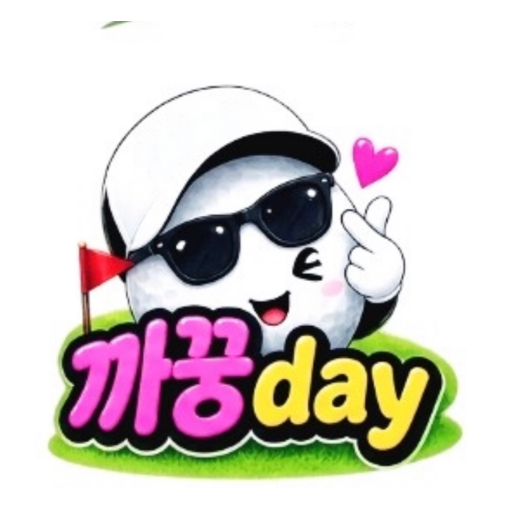
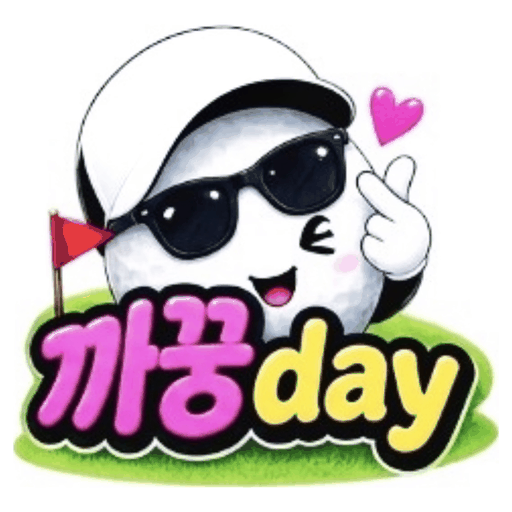
아이콘과 첫 화면을 새 스티커 그림으로 바꾼다
사용자가 준 고해상도 원본(1206×1069)에서 다섯 자리를 함께 다시 만들었다.
예전 것은 같은 그림의 낮은 해상도판이라 글자가 뭉개져 있었다.

- icon-192 · icon-512 · apple-touch-icon(180) — 흰 정사각 가운데 95%
- icon-maskable(512) — 80%. 동그랗게 잘라 봐서 그림이 안 잘리는 걸 확인했다
- index.html의 .boot::before에 박아 둔 400px WebP도 함께 갈았다(13KB)

넷 다 256색으로 줄여 저장한다. 스티커라 색 수가 적어 눈에는 그대로인데
512가 246KB → 88KB가 된다. 줄인 뒤 바깥 테두리가 순백인지 확인했다 —
디더링 잡티가 남으면 흰 바탕 위에서 네모난 자국으로 보인다.

manifest의 background_color를 흰색으로 옮겼다. --bg(살짝 초록빛)로 두면
안드로이드가 띄우는 첫 화면에서 그림 둘레에 네모난 자국이 보이고,
바로 뒤에 오는 .boot(흰 바탕)와도 색이 어긋난다. theme_color는
상태 막대 몫이라 그대로 두었다.

diff --git a/index.html b/index.html
@@ -57,7 +57,7 @@
       /* **그림을 파일로 부르지 않고 여기 박아 둔다.** 파일로 두면 문서를 받고
          나서 한 번 더 다녀와야 해서, LTE에서 흰 화면이 먼저 보이고 조금 뒤에
          그림이 떴다. 지금은 문서와 함께 오므로 첫 프레임부터 있다.
-         (원본 512 PNG는 200KB라 못 박는다. 400px WebP로 줄여 15KB다.)
+         (원본 512 PNG는 87KB라 못 박는다. 400px WebP로 줄여 13KB다.)
          `::before`로 두는 것도 이유가 있다 — 이러면 React 쪽 로딩 화면이
          `<div class="boot">` 하나만 그려도 같은 그림이 나와서, 그림이
          자바스크립트 묶음에 **또 들어가지 않는다.**
@@ -69,7 +69,7 @@
         height: 200px;
         max-width: 52vw;
         max-height: 52vw;
[2 lines of base64/hex data omitted]
       }
     </style>
   </head>
